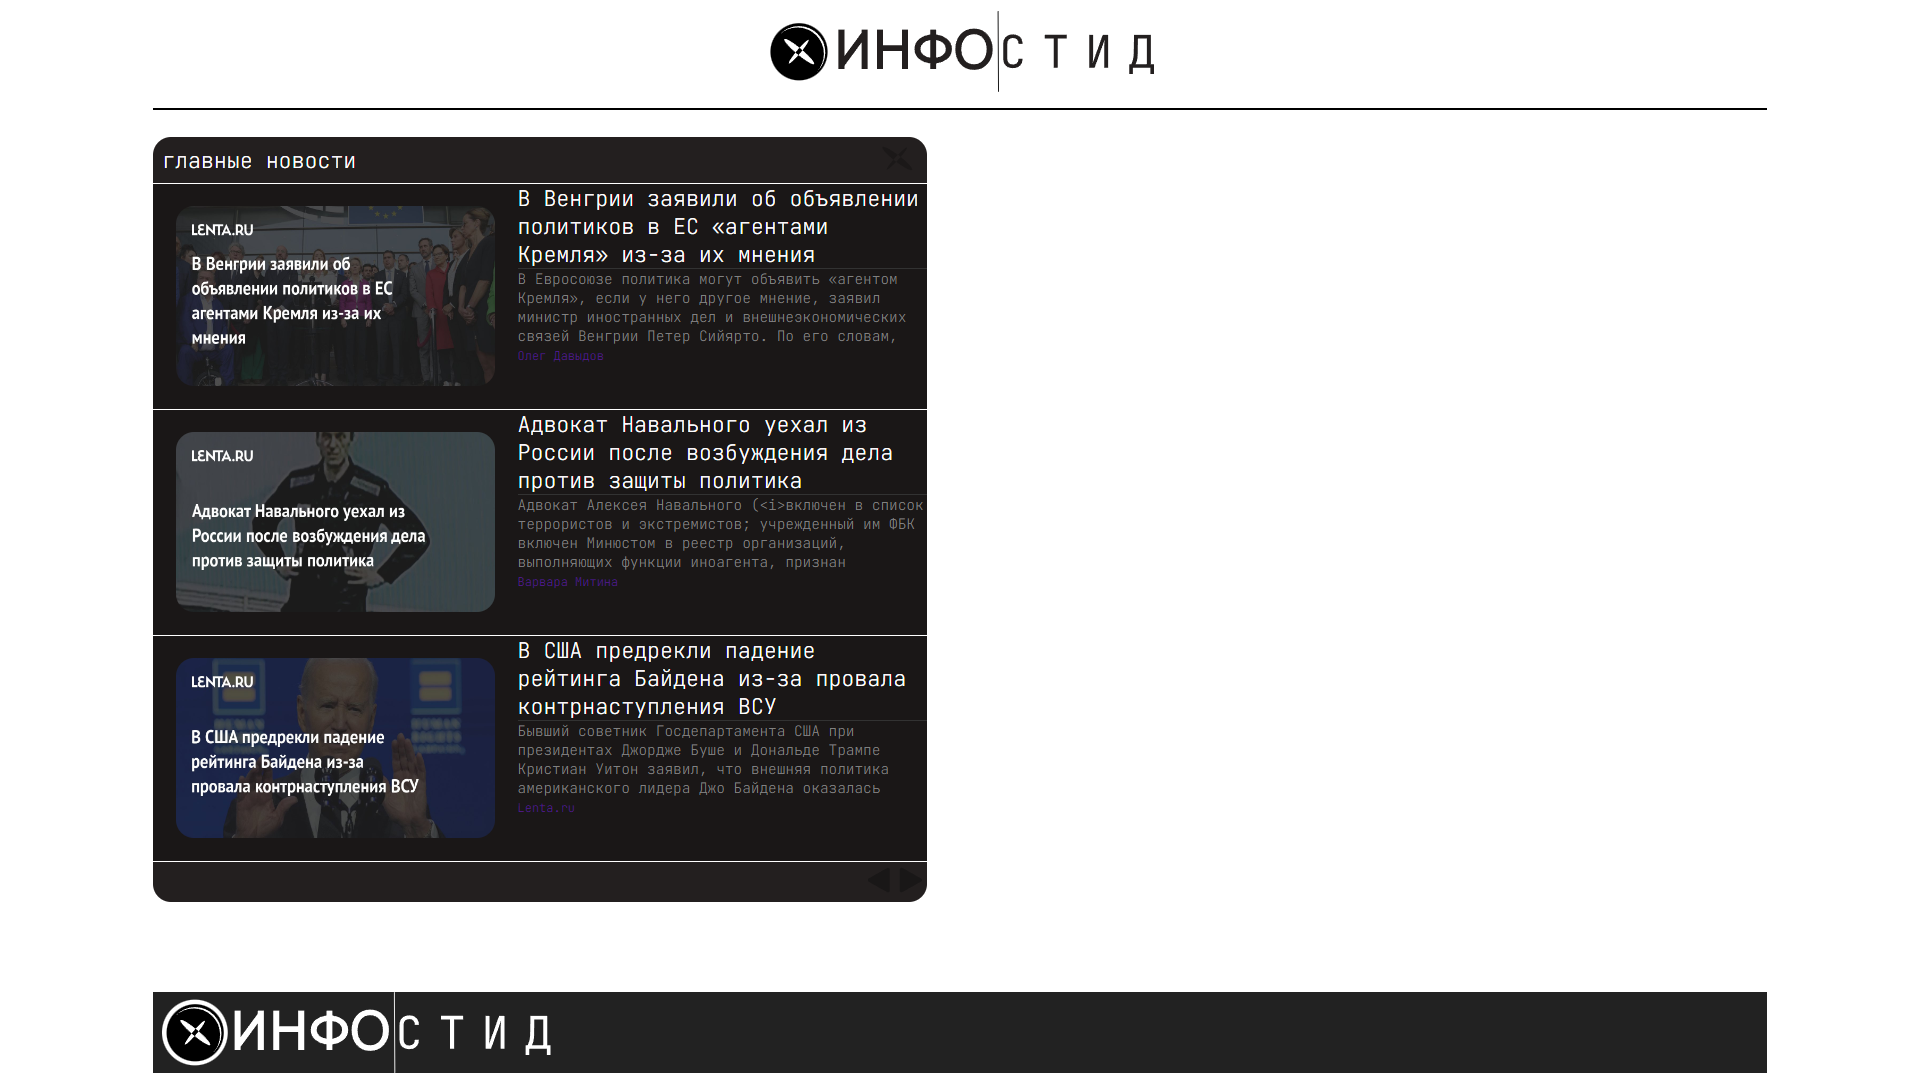
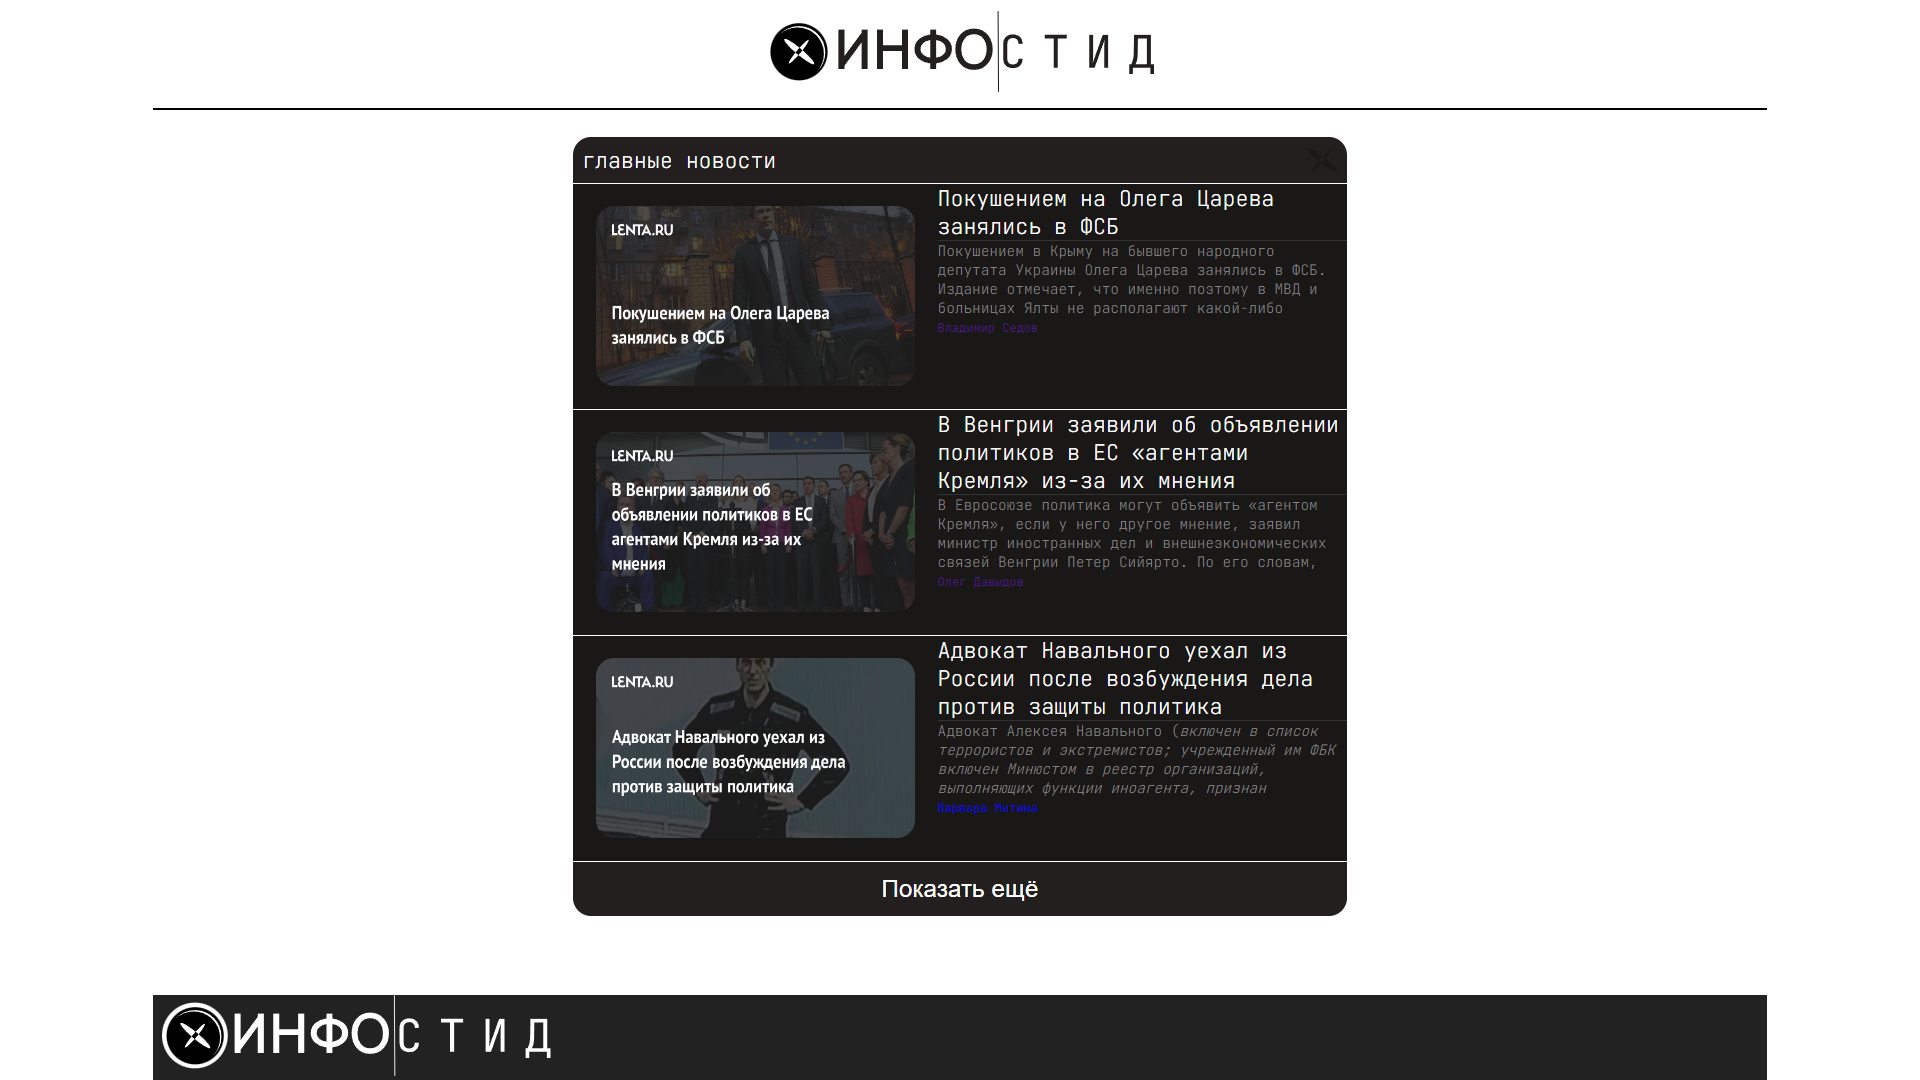
update

diff --git a/js/index/index.js b/js/index/index.js
@@ -1,52 +1,26 @@
-const linkMainNews1 = document.getElementById("link-main-news-1");
-const newsImg1 = document.getElementById("news-img-1");
-const hMainNews1 = document.getElementById("head-main-news-1");
-const dMainNews1 = document.getElementById("description-main-news-1");
-const srcMainNews1 = document.getElementById("src-main-news-1");
+const cardsList = document.getElementsByClassName("news-card")
+const cards = document.querySelector(".news-cards")
 
-const linkMainNews2 = document.getElementById("link-main-news-2");
-const newsImg2 = document.getElementById("news-img-2");
-const hMainNews2 = document.getElementById("head-main-news-2");
-const dMainNews2 = document.getElementById("description-main-news-2");
-const srcMainNews2 = document.getElementById("src-main-news-2");
+const showMore = document.getElementById("show-more");
+let db
 
-const linkMainNews3 = document.getElementById("link-main-news-3");
-const newsImg3 = document.getElementById("news-img-3");
-const hMainNews3 = document.getElementById("head-main-news-3");
-const dMainNews3 = document.getElementById("description-main-news-3");
-const srcMainNews3 = document.getElementById("src-main-news-3");
-
-const arrowLeft = document.getElementById("arrow-left");
-const arrowRight = document.getElementById("arrow-right");
-
-let limit = 0;
-let n = 0;
-
-const init = (data, n = 0) => {
-    linkMainNews1.setAttribute("href", data.articles[n].url)
-    newsImg1.setAttribute("src", data.articles[n].urlToImage)
-    hMainNews1.textContent = data.articles[n].title
-    dMainNews1.textContent = data.articles[n].description
-    srcMainNews1.textContent = data.articles[n].author
-
-    n = ++n;
-
-    linkMainNews2.setAttribute("href", data.articles[n].url)
-    newsImg2.setAttribute("src", data.articles[n].urlToImage)
-    hMainNews2.textContent = data.articles[+ n].title
-    dMainNews2.textContent = data.articles[n].description
-    srcMainNews2.textContent = data.articles[n].author
-
-    n = ++n;
-
-    linkMainNews3.setAttribute("href", data.articles[n].url)
-    newsImg3.setAttribute("src", data.articles[n].urlToImage)
-    hMainNews3.textContent = data.articles[n].title
-    dMainNews3.textContent = data.articles[n].description
-    srcMainNews3.textContent = data.articles[n].author
-
-    n = ++n;
+const createCard = (data) => {
+    cards.insertAdjacentHTML(
+        "beforeend",
+        `<article class="news-card">
+        <a href="${data.articles[cardsList.length].url}">
+            <img src="${data.articles[cardsList.length].urlToImage}" alt="news-img" draggable="false" width="355px" height="200px">
+            <div class="text-main-news">
+                <h2 class="head-main-news">${data.articles[cardsList.length].title}</h2>
+                <p class="description-main-news">${data.articles[cardsList.length].description}</p>
+                <small class="src-main-news">${data.articles[cardsList.length].author || ""}</small>
+            </div>
+        </a>
+        </article>   `
+    )
 }
+
+console.log(cards);
 
 let url = 'https://newsapi.org/v2/everything?' +
     'q=политика&' +
@@ -60,30 +34,18 @@ let req = new Request(url);
 fetch(req)
     .then(res => res.json())
     .then(data => {
-        console.log(data)
-        init(data)
-        limit = data.articles.length
-        console.log(limit);
+        createCard(data);
+        createCard(data);
+        createCard(data);
+        db = data;
     })
-
-arrowRight.addEventListener("click", () => {
-    fetch(req)
-        .then(res => res.json())
-        .then(data => {
-            init(data, n)
-            console.log(data)
-        })
-
-    n = n + 3;
-})
-
-arrowLeft.addEventListener("click", () => {
-    fetch(req)
-        .then(res => res.json())
-        .then(data => {
-            init(data, n)
-            console.log(data)
-        })
-
-    n = n - 3;
-})
+    showMore.addEventListener("click", () => {
+        if(db.articles.length-cardsList.length) {
+            createCard(db);
+            createCard(db);
+            createCard(db);
+        }
+        else{
+            showMore.style.display = "none";
+        }
+    })

diff --git a/html/index/index.html b/html/index/index.html
@@ -8,71 +8,27 @@
 <body>
     <header>
         <div>
-            <!-- <button id="wrapper-menu-icon"><img src="/src/svg/menu.svg" alt="menu" draggable="false" id="menu-icon"></button> -->
-            <a href="http://127.0.0.1:5500/html/index/index.html"><img src="/src/svg/logo-dark.svg" alt="logo" draggable="false" id="main-logo"></a>
-            <!-- <button id="wrapper-search-icon"><img src="/src/svg/search.svg" alt="search" draggable="false" id="search-icon"></button>
-            <button id="wrapper-login-icon"><img src="/src/svg/login.svg" alt="login" draggable="false" id="login-icon"></button> -->
+            <a href=""><img src="/src/svg/logo-dark.svg" alt="logo" draggable="false" id="main-logo"></a>
         </div>
     </header>
     <hr id="header-end">
-    <nav>
-        <ul>
-            <li><span>политика</span></li>
-            <li><span>в мире</span></li>
-            <li><span>экономика</span></li>
-            <li><span>наука</span></li>
-            <li><span>спорт</span></li>
-            <li><span>туризм</span></li>
-        </ul>
-    </nav>
     <main>
         <article id="main-news">
             <div id="main-news-header">
                 <h2>главные новости</h2>
                 <img src="/src/svg/micro-logo.svg" alt="micro-logo" class="micro-icon">
             </div>
-            <article class="news-card">
-                <a href="" id="link-main-news-1">
-                    <img src="" alt="news-img-1" draggable="false" width="355px" height="200px" id="news-img-1">
-                    <div class="text-main-news">
-                        <h2 id="head-main-news-1" class="head-main-news">Заголовок</h2>
-                        <p id="description-main-news-1" class="description-main-news">Текст</p>
-                        <small id="src-main-news-1" class="src-main-news">источник</small>
-                    </div>
-                </a>
-                </article>   
-            <article class="news-card">
-                <a href="" id="link-main-news-2">
-                    <img src="" alt="news-img-2" draggable="false" width="355px" height="200px" id="news-img-2">
-                    <div class="text-main-news">
-                        <h2 id="head-main-news-2" class="head-main-news">Заголовок</h2>
-                        <p id="description-main-news-2" class="description-main-news">Текст</p>
-                        <small id="src-main-news-2" class="src-main-news">источник</small>
-                    </div>
-                </a>
-            </article>
-            <article class="news-card">
-                <a href="" id="link-main-news-3">
-                    <img src="" alt="news-img-3" draggable="false" width="355px" height="200px" id="news-img-3">
-                    <div class="text-main-news">
-                        <h2 id="head-main-news-3" class="head-main-news">Заголовок</h2>
-                        <p id="description-main-news-3" class="description-main-news">Текст</p>
-                        <small id="src-main-news-3" class="src-main-news">источник</small>
-                    </div>
-                </a>
-            </article>
-            <div id="wrapper-arrow">
-                <button>
-                    <img src="/src/svg/arrow.svg" alt="arrow" id="arrow-left">
-                </button>
-                <button>
-                    <img src="/src/svg/arrow.svg" alt="arrow" id="arrow-right">
-                </button>
+            <div class="news-cards">
             </div>
+            <button id="show-more">
+                <h2>
+                    Показать ещё
+                </h2>
+            </button>
         </article>
     </main>
     <footer>
-        <img src="/src/svg/logo-light.svg" alt="">
+        <img src="/src/svg/logo-light.svg" alt="" draggable="false">
     </footer>
     <script src="/js/index/index.js"></script>
 </body>

diff --git a/css/index/index.css b/css/index/index.css
@@ -34,10 +34,6 @@ header {
     margin-top: 12.5px;
 }
 
-header button {
-    position: absolute;
-}
-
 #header-end {
     margin-top: 12.5px;
     border-style: solid;
@@ -46,14 +42,21 @@ header button {
 #main-news {
     background-color: rgba(35, 31, 31, 1);
     width: 860px;
-    height: 850px;
     border-radius: 20px;
+    margin: auto;
     margin-top: 30px;
+}
+
+#main-news button {
+    width: 100%;
+    height: 60px;
+    font-size: large;
 }
 
 #main-news-header {
     border-bottom: white solid 1px;
     padding: 10px;
+    display: flex;
 }
 
 .news-card {
@@ -81,41 +84,13 @@ header button {
     color: gray;
 }
 
-#arrow-left {
-    transform: rotate(180deg);
-}
-
 .micro-icon {
-    top: 162.5px;
-    position: absolute;
-    left: 980px;
-}
-
-/* header button {
-    height: 100%;
-} */
-
-nav {
-    margin: 15px;
-    display: none;
-}
-
-ul {
-    margin: 0; 
-    margin-left: 3%;
-    text-align: center;
-}
-
-ul li {
-    display: inline; /* Отображать как строчный элемент */
-    margin-right: 70px;
-
+    margin-left: auto;
 }
 
 footer {
-    margin-top: 100px;
+    margin-top: 88px;
     background-color: rgb(34, 34, 34);
-    height: 90px;
 }
 
 footer img {
@@ -129,24 +104,4 @@ button {
 
 button:hover {
     cursor: pointer;
-}
-
-#wrapper-menu-icon {
-    left: 180px;
-    top: 45px;
-}
-
-#wrapper-search-icon {
-    top: 35px;
-    right: 260px;
-}
-
-#wrapper-login-icon {
-    right: 180px;
-    top: 38px;
-}
-
-#wrapper-arrow {
-    float: right;
-    margin: 6px;
 }

diff --git a/README.MD b/README.MD
@@ -1,5 +1,5 @@
 # Инфо|Стид
 
-Это репозиторий с одностраничным агрегатором "Инфо|Стид".
+Это репозиторий с одностраничным новостным агрегатором "Инфо|Стид".
 
 ![t2i](readme.png)
